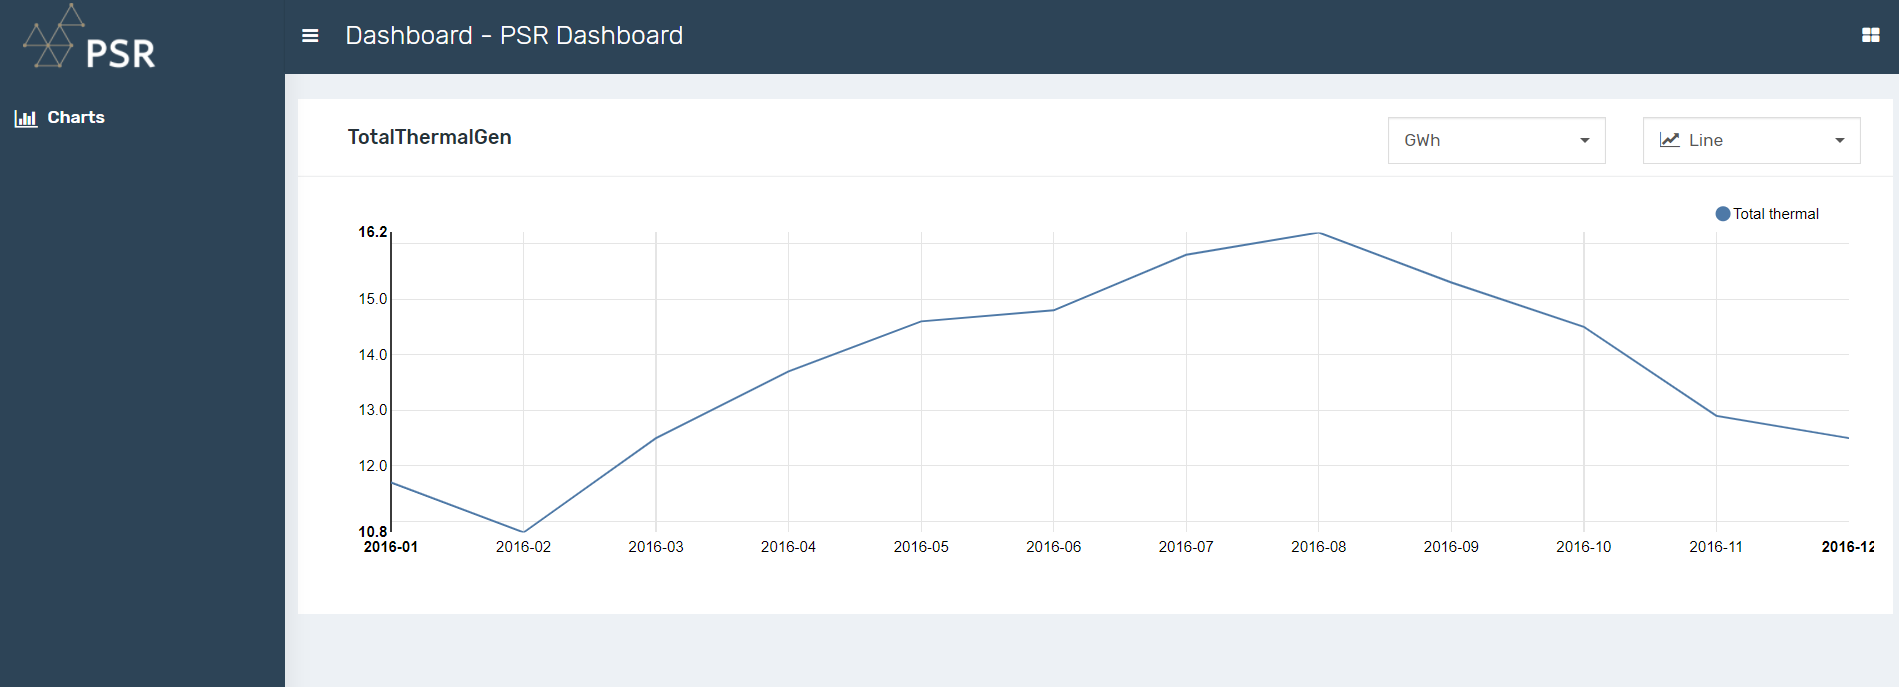
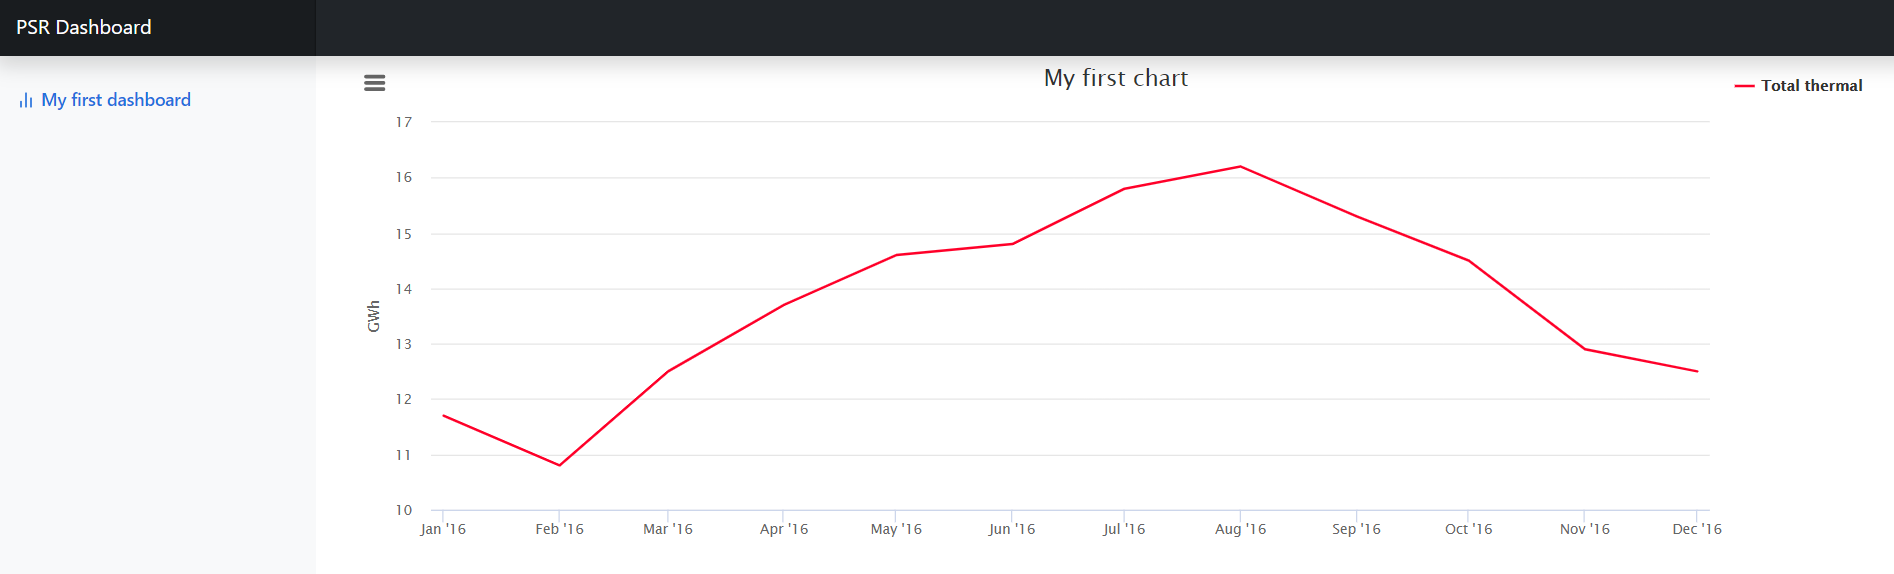
Update getting started section

diff --git a/docs/getting_started.md b/docs/getting_started.md
@@ -102,19 +102,19 @@ The first instruction tells PSRIO to aggregate agents, summing their respective 
  The best way to visualize data is by plots, so we will also make one of them. First, let’s define a object for the chart.
 
 ``` lua 
-my_chart = Chart();
+my_chart = Chart("My first chart");
 ```
 
 Now, we indicate to the chart object that we want to plot the data contained in the file `TotalThermalGen.csv`, which we have just created.
 
 ``` lua 
-my_chart:push("TotalThermalGen", "line");
+my_chart:add_line("TotalThermalGen");
 ```
 
 After that, we will define a dashboard object to hold chart objects information and then add the charts and save to the file `ThermalReport.html`.
 
 ``` lua 
-my_dash = Dashboard();
+my_dash = Dashboard("My first dashboard");
 my_dash:push(my_chart);
 my_dash:save("ThermalReport");
 ```
@@ -130,20 +130,20 @@ In short, the recipe for this work is as follows:
 ``` lua 
 --Load thermal collections and thermal generation data
 thermal_plants = require("collection/thermal");
-thermal_gen=thermal_plants:load("gerter");
+thermal_gen = thermal_plants:load("gerter");
 
 --Aggregate agents generations by sum and save to output file
 total_thermal_gen = thermal_gen:aggregate_agents(BY_SUM(), "Total thermal");
 total_thermal_gen:save("TotalThermalGen", {csv=true});
 
 --Create chart object
-my_chart = Chart();
+my_chart = Chart("My first chart");
 
 --Add total generation info
-my_chart:push("TotalThermalGen", "line");
+my_chart:add_line("TotalThermalGen");
 
 --Create dashboad object
-my_dash = Dashboard();
+my_dash = Dashboard("My first dashboard");
 
 --Add chart and save to html file
 my_dash:push(my_chart);
@@ -156,16 +156,29 @@ There are 3 ways to run the script above. We are now going to explain each one o
 
 ### Graph 4.0
 
+Graph 4.0 is a graphing tool that allows us to make PSRIO scripts inside an editor. After the execution of SDDP, open Graph 4.0:
 
+<div style="text-align:center">
+    <img src="images\Srcsht_graph_step1.png" width="600"/>
+</div>
 
+The application's interface will be opened. Select the PSRIO editor option in the menu located on the left side of your screen:
+
+<div style="text-align:center">
+    <img src="images\Srcsht_graph_step2.png" width="600"/>
+</div>
+
+PSRIO editor will be opened. Create a new script, write down the code, save it and then you are ready to go.
+
+<div style="text-align:center">
+    <img src="images\Srcsht_graph_step3_v2.png" width="600"/>
+</div>
 
 ### SDDP
 
-The instructions to PSRIO can be put in a `.lua` file inside the example case directory. At the end of execution of SDDP, PSRIO will find your `.lua` and run it, executing the all the instruction contained in it.
+The instructions to PSRIO can be put in a `.lua` file inside the example case directory. **File name must be `sddp.lua` in order for PSRIO to find your file**. At the end of execution of SDDP, PSRIO will find your `.lua` and run it, executing the all the instruction contained in it.
 
-### Command Line
-
-Using the command line terminal of your operating system, you can execute PSRIO, passing the path to your case as argument, and inform the commands.
-
-
+<div style="text-align:center">
+    <img src="images\Srcsht_ScriptSDDP.png" width="750"/>
+</div>
 
